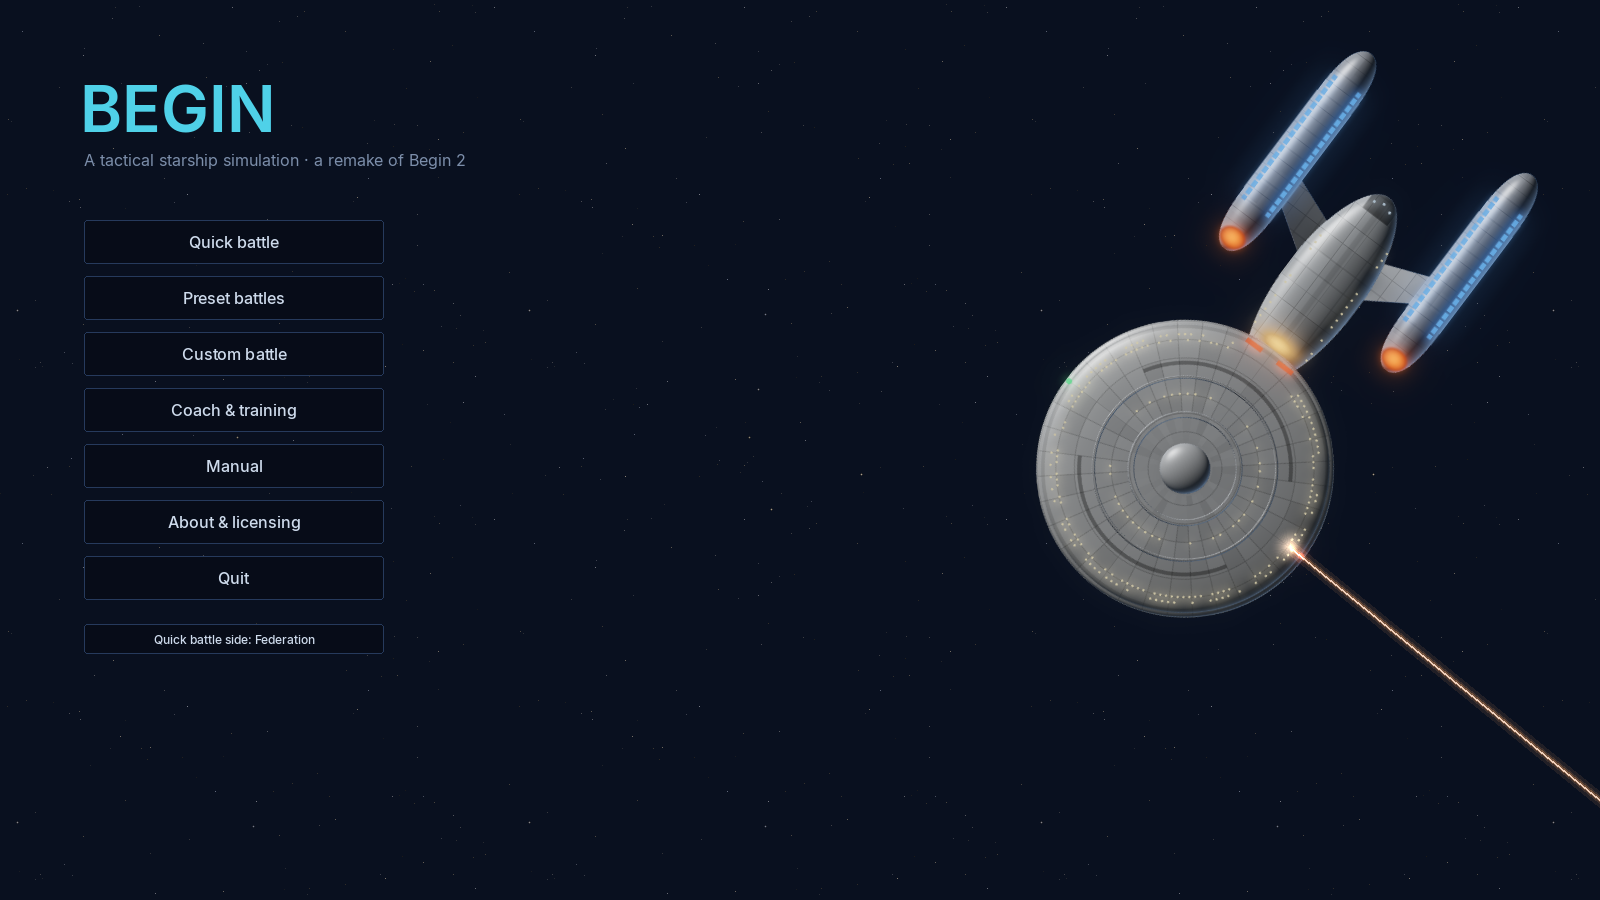
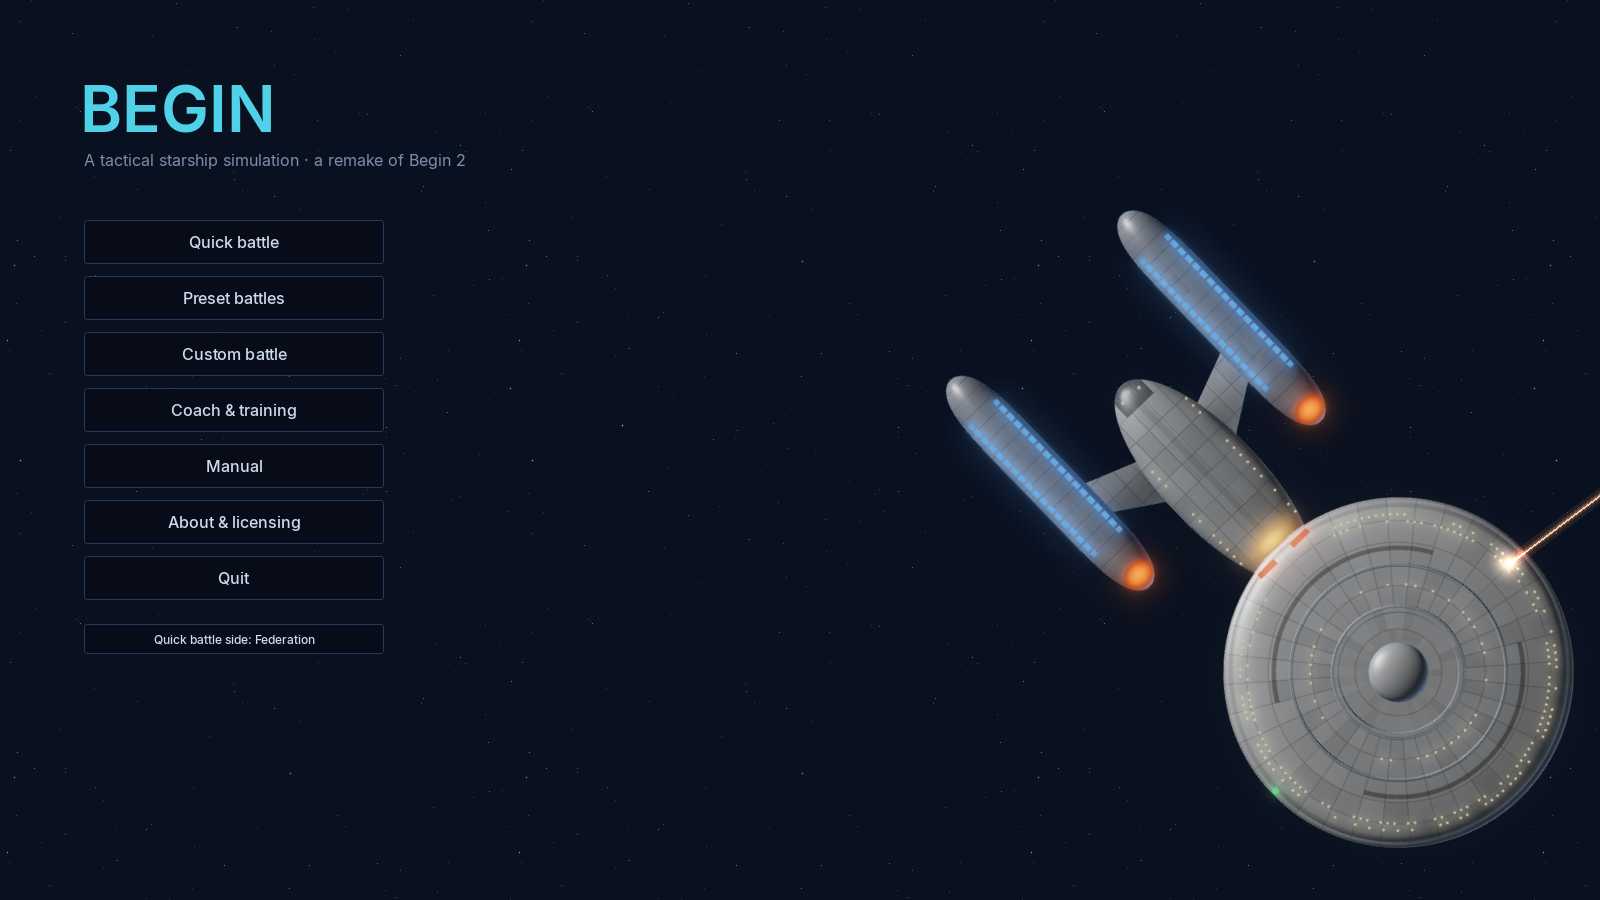
Menu flybys glide slowly in a straight line at one heading
Each pass now runs straight from edge to edge at a fixed heading, so the
sprite is turned once per pass and never twitches between angles, at
about half the old speed. Positions round to the nearest pixel.

Changed region(s): [[0.5938, 0.0622, 1.0, 0.9644], [0.9688, 0.56, 1.0, 0.5911]]

diff --git a/src/begin/ui/showpiece.py b/src/begin/ui/showpiece.py
@@ -95,14 +95,16 @@ class Pass:
     fires: list[tuple[float, str, float]]     # (fraction of the pass, "phaser"|"torpedo", bearing off her heading)
     t: float = 0.0
 
+    @property
+    def heading(self) -> float:
+        """Her one heading for the whole pass, in whole degrees so the sprite is turned once."""
+        (x0, y0), (x2, y2) = self.start, self.end
+        return float(round(math.degrees(math.atan2(x2 - x0, -(y2 - y0)))) % 360)
+
     def at(self, u: float) -> tuple[float, float, float]:
-        """(x, y, heading) a fraction u along a gentle curve."""
-        (x0, y0), (x1, y1), (x2, y2) = self.start, self.mid, self.end
-        a, b, c = (1 - u) ** 2, 2 * u * (1 - u), u * u
-        x, y = a * x0 + b * x1 + c * x2, a * y0 + b * y1 + c * y2
-        dx = 2 * (1 - u) * (x1 - x0) + 2 * u * (x2 - x1)
-        dy = 2 * (1 - u) * (y1 - y0) + 2 * u * (y2 - y1)
-        return x, y, math.degrees(math.atan2(dx, -dy)) % 360.0
+        """(x, y, heading) a fraction u along a straight line: no turning, so nothing twitches."""
+        (x0, y0), (x2, y2) = self.start, self.end
+        return x0 + (x2 - x0) * u, y0 + (y2 - y0) * u, self.heading
 
 
 class Flybys:
@@ -136,9 +138,7 @@ class Flybys:
         a_len, b_len = to_edge(-tx, -ty), to_edge(tx, ty)
         start = (mid[0] - tx * a_len, mid[1] - ty * a_len)
         end = (mid[0] + tx * b_len, mid[1] + ty * b_len)
-        bend = r.uniform(-0.18, 0.18) * (a_len + b_len)            # a gentle turn through the pass
-        ctrl = (mid[0] - ty * bend, mid[1] + tx * bend)
-        speed = r.uniform(170, 260) * (0.6 + 0.5 * scale)          # a close pass is a quicker one
+        speed = r.uniform(80, 120) * (0.6 + 0.5 * scale)           # a stately glide; a close pass a little quicker
         duration = (a_len + b_len) / speed
         fires: list[tuple[float, str, float]] = []
         roll = r.random()
@@ -147,7 +147,7 @@ class Flybys:
                 kind = "phaser" if r.random() < 0.55 else "torpedo"
                 off = r.choice((-1, 1)) * r.uniform(35, 110) if kind == "phaser" else r.uniform(-12, 12)
                 fires.append((r.uniform(0.35, 0.62), kind, off))
-        return Pass(start, ctrl, end, duration, scale, sorted(fires))
+        return Pass(start, mid, end, duration, scale, sorted(fires))
 
     # ------------------------------------------------------------ running
 
@@ -225,9 +225,9 @@ class Flybys:
                 self._torpedo(glow, s)
         if ship_at is not None:
             x, y, hdg = ship_at
-            img = ship_image(round(hdg) % 360, ship_scale)
+            img = ship_image(hdg, ship_scale)
             if img is not None:
-                surf.blit(img, img.get_rect(center=(int(x), int(y))))
+                surf.blit(img, img.get_rect(center=(round(x), round(y))))
         surf.blit(glow, (0, 0), special_flags=pygame.BLEND_RGB_ADD)
 
     @staticmethod

diff --git a/tests/test_showpiece.py b/tests/test_showpiece.py
@@ -2,6 +2,8 @@
 
 from __future__ import annotations
 
+import math
+
 import pygame
 
 from begin.ui import showpiece
@@ -50,3 +52,22 @@ def test_flybys_fall_back_quietly_without_sprites(monkeypatch) -> None:  # type:
             f.draw(surf)
     finally:
         showpiece.ship_image.cache_clear()
+
+
+def test_each_pass_is_a_straight_line_at_one_heading() -> None:
+    surf = _display()
+    f = Flybys(seed=8)
+    seen = 0
+    while seen < 3:
+        f.update(0.05, surf.get_size())
+        p = f.current
+        if p is None or p.t > 0.05:
+            continue
+        seen += 1
+        pts = [p.at(u / 20) for u in range(21)]
+        assert len({h for _, _, h in pts}) == 1                    # one heading, one sprite, all pass long
+        (x0, y0, _), (x1, y1, _) = pts[0], pts[-1]
+        for x, y, _ in pts:                                         # every point on the line from start to end
+            assert abs((x1 - x0) * (y - y0) - (y1 - y0) * (x - x0)) < 1e-6 * max(1.0, abs(x1 - x0) + abs(y1 - y0)) ** 2
+        speed = math.hypot(x1 - x0, y1 - y0) / p.duration
+        assert speed < 140                                          # a slow glide, in pixels a second

diff --git a/docs/DEVIATIONS.md b/docs/DEVIATIONS.md
@@ -125,7 +125,7 @@ Begin drew its display in text and simple vectors and had no sound effects. The 
 - A ship that cloaks or decloaks in view wavers in a ripple, as does one that vanished in view and is then caught by a tachyon pulse.
 - The panel borders pulse red while the ship is at red alert: hit lately, or an enemy within 12,000.
 - The end-of-battle assessment adds your ship's record and a standout officer (`crew/review.py`). It counts the officer's orders carried out, from the command log, plus objectives seen through and projects finished.
-- The main menu has flybys (`ui/showpiece.py`): the Enterprise crosses the stars on a gently curving path, from a random direction and at one of several sizes, then leaves the screen for a few seconds. On about three passes in four she fires once or twice: two or three phaser beams from the saucer banks that face the (unseen) target, or a spread of two to four torpedoes from the forward tubes, with additive glow, flashes and fading trails. Menu sound plays at 40% of the battle level.
+- The main menu has flybys (`ui/showpiece.py`): the Enterprise glides across the stars in a straight line at one fixed heading (so the sprite is turned once per pass and never twitches), slowly, from a random direction and at one of several sizes, then leaves the screen for a few seconds. On about three passes in four she fires once or twice: two or three phaser beams from the saucer banks that face the (unseen) target, or a spread of two to four torpedoes from the forward tubes, with additive glow, flashes and fading trails. Menu sound plays at 40% of the battle level.
 - The Enterprise is drawn from a pre-rendered sprite rather than vectors on the menu and, in battle, when the map is zoomed in far enough (at least 0.9 pixels per hull unit) on a Federation heavy cruiser. `tools/render_ship.py` bakes it offline from our own height-field model of the ship: two-tone hull plating and panel lines, lit windows, nacelle grilles and glowing Bussard caps, the deflector dish, impulse engines and navigation lights, lit with diffuse, specular and rim light, ambient occlusion and bloom. It is rendered at twelve headings, each with the light kept fixed on screen, and the game rotates the nearest one. No artwork from any other source is used.
 - Sound is synthesised at start-up from original synthesis, with no recorded audio. It plays only for what the player can see, panned and attenuated by where it happens on the map. `volume` and `muted` live in `config/settings.json`; M mutes and `sound on|off|<0-100>` sets it. The phaser (a steady, buzzing held beam with a flanged shimmer) and the torpedo launch (a low thump under a falling whoosh, with a short room tail) each come in four versions (rays and energy pulses modelled on the shows' character, plus a buzz and a thump), picked with `sound phaser|torpedo a|b|c|d` and kept as `sounds` in the settings. A WAV of the player's own in `config/sounds/` replaces any sound.
 

diff --git a/README.md b/README.md
@@ -37,7 +37,7 @@ Useful shortcuts:
 
 ### Before you start
 
-The main menu sits over a slowly drifting starfield. Every so often the Enterprise sweeps across it from a new direction, at a new size and on a gently curving path, and on most passes she fires: a phaser volley from the saucer banks that face the unseen enemy, or a spread of torpedoes from the forward tubes. Then she is gone and the stars have the screen until the next pass. The menu's sound is quieter than the battle's. From the menu you can start quick, preset and custom battles, or open **Coach & training** (or **C**). That opens the coach before any battle, with a short training run: how to find and target the enemy, close the range, use torpedoes at long range and phasers up close, and keep a good shield toward them, each with the command to type. **Manual** (or **H**) opens the whole manual.
+The main menu sits over a slowly drifting starfield. Every so often the Enterprise sweeps across it from a new direction, at a new size and in a slow, straight glide, and on most passes she fires: a phaser volley from the saucer banks that face the unseen enemy, or a spread of torpedoes from the forward tubes. Then she is gone and the stars have the screen until the next pass. The menu's sound is quieter than the battle's. From the menu you can start quick, preset and custom battles, or open **Coach & training** (or **C**). That opens the coach before any battle, with a short training run: how to find and target the enemy, close the range, use torpedoes at long range and phasers up close, and keep a good shield toward them, each with the command to type. **Manual** (or **H**) opens the whole manual.
 
 ![The main menu, with the Enterprise passing and firing a phaser volley](docs/screenshots/menu.png)
 

diff --git a/docs/ARCHITECTURE.md b/docs/ARCHITECTURE.md
@@ -88,7 +88,7 @@ The providers (`llm/providers/`) share one `complete(system, messages) -> str` m
 - the console and its log;
 - any open overlay: Begin's text reports (`console/reports.py`) or the manual (`ui/manual.py`, which renders `ui/markdown.py`).
 
-`MenuScene` draws the starfield and the flybys from `ui/showpiece.py`, which plans each pass as a curve across the screen, fires phasers and torpedoes along it and draws them with additive glow. The ship sprites it uses are PNGs in `assets/ships/`, baked by `tools/render_ship.py` (which needs numpy; the game does not).
+`MenuScene` draws the starfield and the flybys from `ui/showpiece.py`, which plans each pass as a straight line across the screen at one heading, fires phasers and torpedoes along it and draws them with additive glow. The ship sprites it uses are PNGs in `assets/ships/`, baked by `tools/render_ship.py` (which needs numpy; the game does not).
 
 Panels subclass `Panel` and draw themselves into a rectangle, using small immediate-mode widgets from `ui/widgets.py`. Colours and fonts come from `ui/theme.py`.
 
